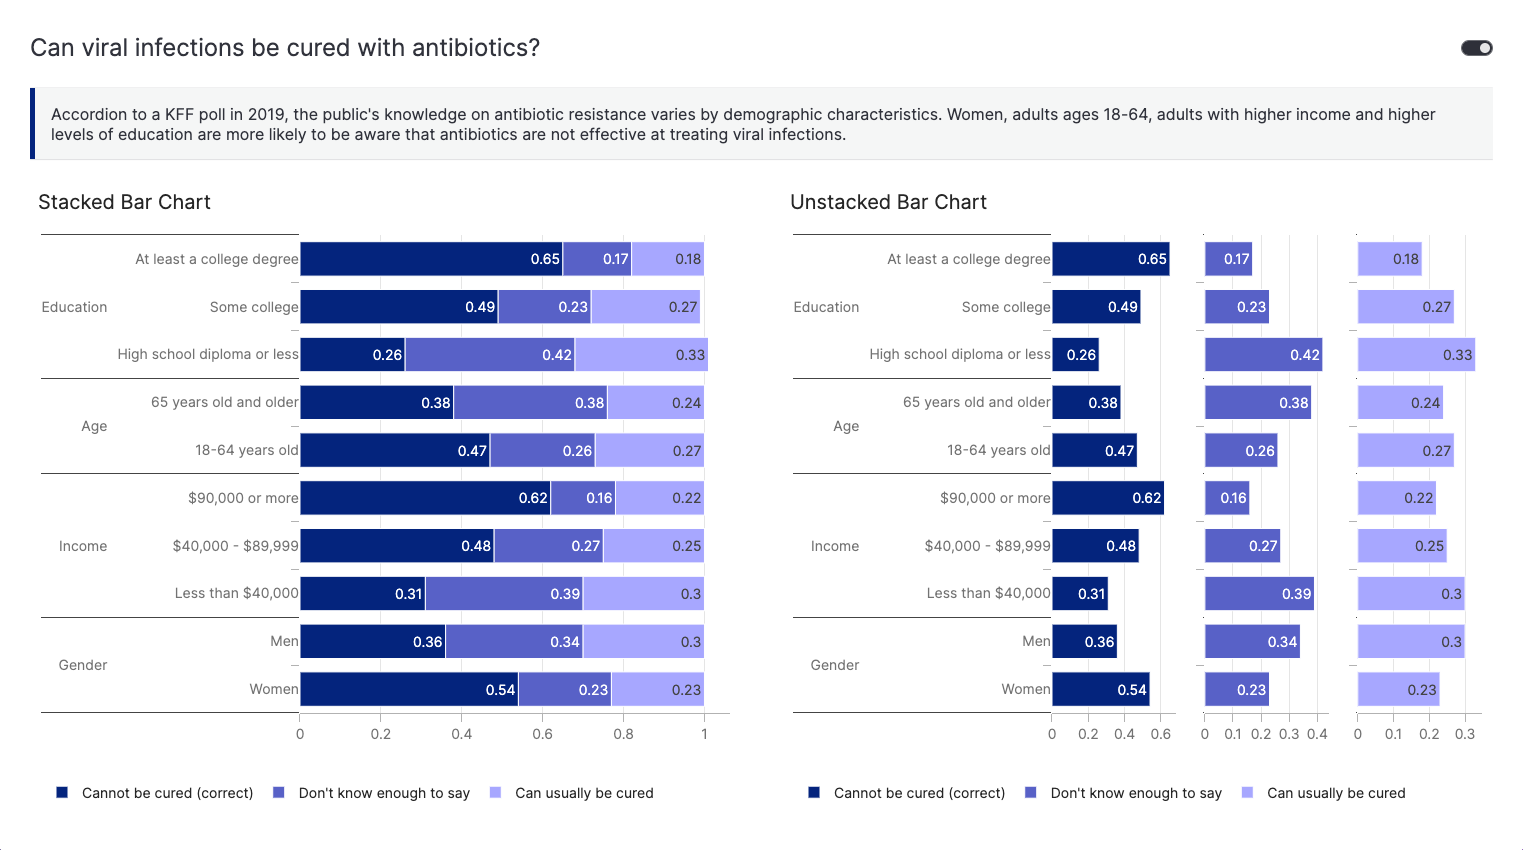
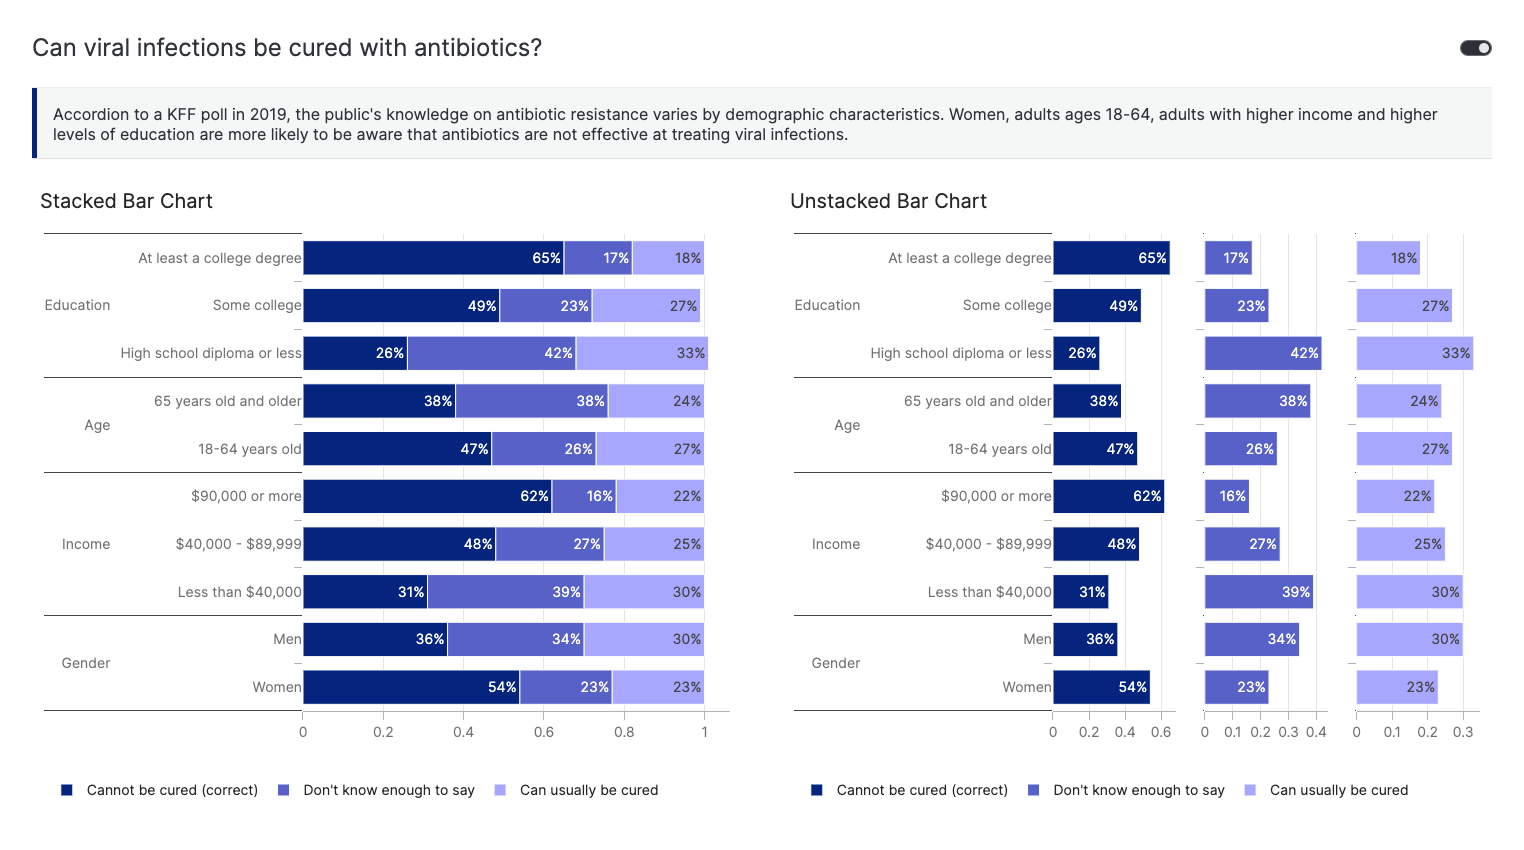
Improve labels

diff --git a/mom-week14-comparison-stacked-bar/app.py b/mom-week14-comparison-stacked-bar/app.py
@@ -41,7 +41,7 @@ def multi_cat_bar(
                 y=[tmp_df[y2], tmp_df[y]],
                 name=color_cat,
                 orientation="h",
-                text=tmp_df[x],
+                text=tmp_df[x].apply(lambda x: f'{x * 100:.0f}%'),
                 textposition="inside",
                 marker_color=next(colors),
             )
@@ -78,7 +78,7 @@ def multi_cat_faceted_bar(
                 y=[tmp_df[y2], tmp_df[y]],
                 name=color_cat,
                 orientation="h",
-                text=tmp_df[x],
+                text=tmp_df[x].apply(lambda x: f'{x * 100:.0f}%'),
                 textposition="inside",
                 marker_color=next(colors),
             ),
